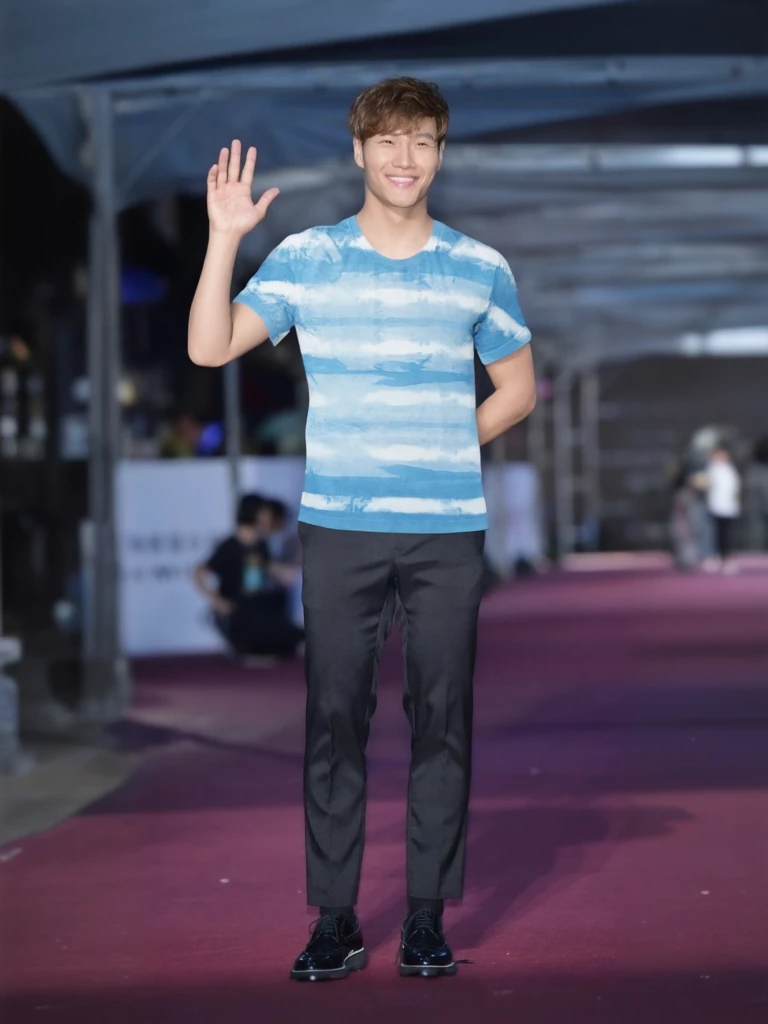
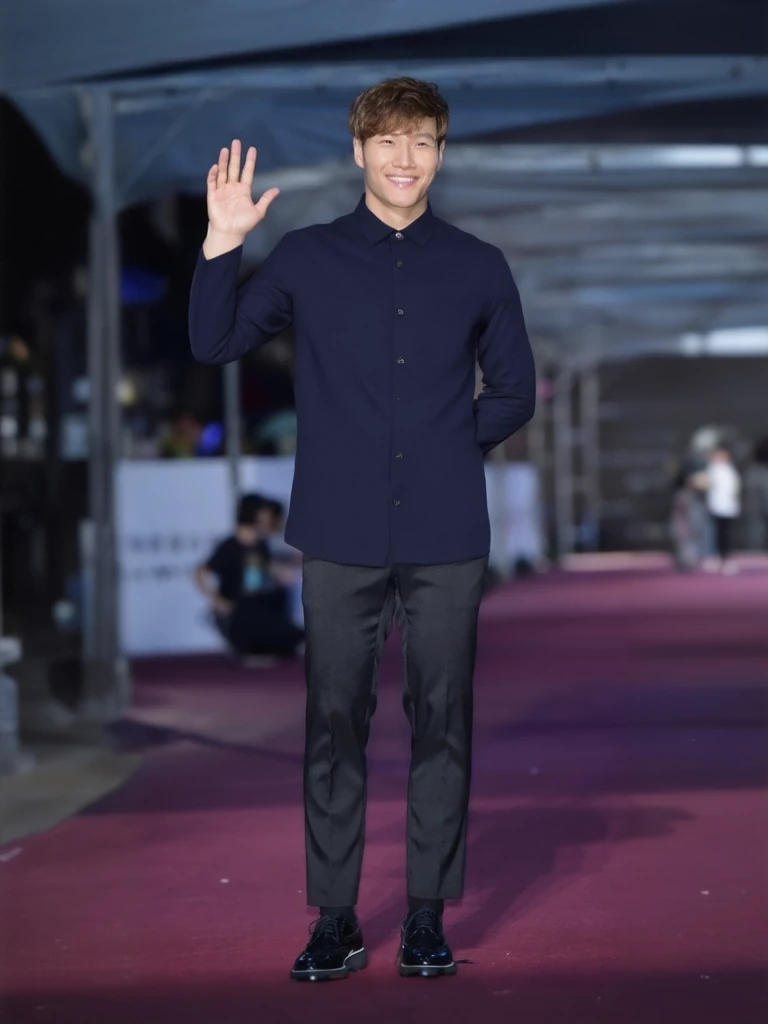
r

Changed region(s): [[0.2188, 0.1875, 0.7188, 0.5625]]

diff --git a/FitVTON/index.html b/FitVTON/index.html
@@ -1602,7 +1602,7 @@
 
 <script>
 (function () {
-  var VER = '?v=3';
+  var VER = '?v=5';
   var GENDERS = {
     f: {
       base: 'assets/wild/',
@@ -1624,16 +1624,16 @@
       base: 'assets/wild/male/',
       persons: [
         { id: 'Daniel', height: '165 cm' },
-        { id: 'Gabriel', height: '173 cm' },
         { id: 'Jacob', height: '165 cm' },
         { id: 'Jason', height: '193 cm' },
+        { id: 'Jon', height: '185 cm' },
         { id: 'Jinzhongguo', height: '178 cm' },
         { id: 'Linshuhao', height: '191 cm' },
         { id: 'TomCruise', height: '172 cm' }
       ],
       garments: [
         { id: 'upper_0', label: 'Upper 0 (short-length)' },
-        { id: 'upper_1', label: 'Upper 1 (short-length)' }
+        { id: 'upper_1', label: 'Upper 1 (long-length)' }
       ]
     }
   };
